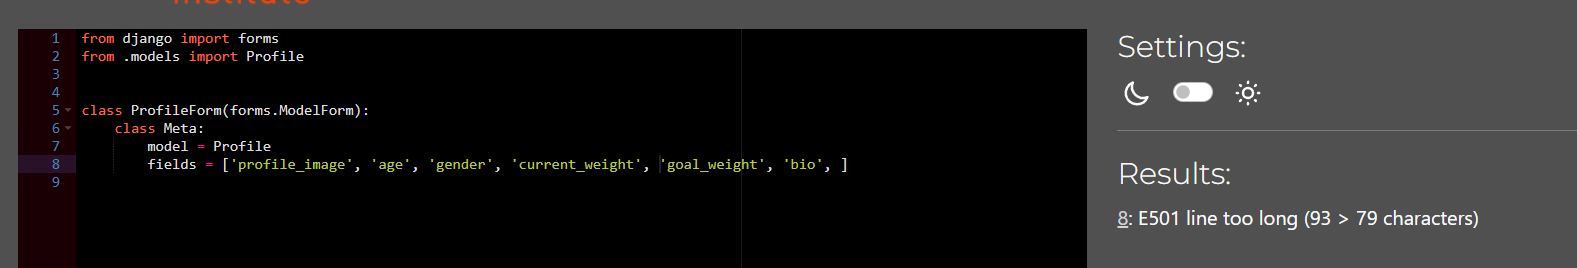
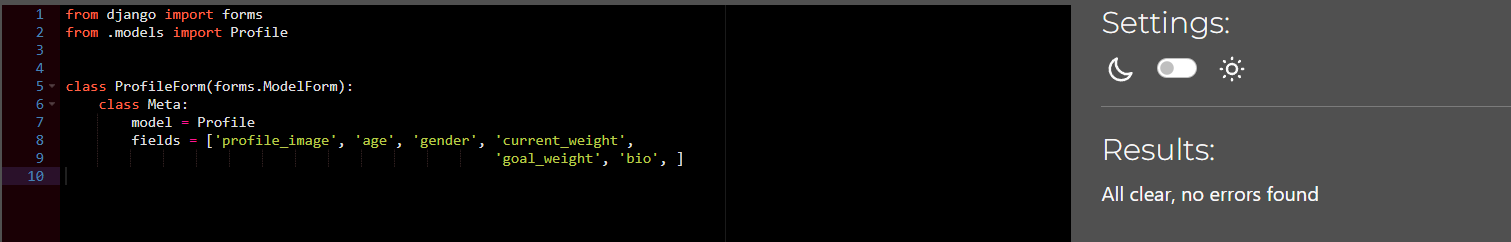
ensure code passes through linter. Update testing.md.

Changed region(s): [[0.0, 0.0, 1.0, 1.0]]

diff --git a/workouts/views.py b/workouts/views.py
@@ -1,30 +1,43 @@
-from django.shortcuts import render 
-from django.shortcuts import get_object_or_404
-from django.shortcuts import redirect
-from .models import Workouts , Exercise
-from .forms import NewWorkoutForm , UpdateWorkoutForm, ExerciseForm
+from django.shortcuts import render, get_object_or_404, redirect
+from .models import Workouts, Exercise
+from .forms import NewWorkoutForm, UpdateWorkoutForm, ExerciseForm
+
 
 # Create your views here.
 def Home(request):
-    return render(request ,"index.html")
+    return render(request, "index.html")
+
 
 def Dashboard(request):
-    workouts = Workouts.objects.filter(user=request.user).all().order_by('-updated_on')
+    workouts = (
+        Workouts.objects.filter(user=request.user)
+        .all()
+        .order_by('-updated_on')
+    )
     return render(request, "dashboard.html", {"workouts": workouts})
+
 
 def About(request):
     return render(request, "about.html")
 
+
 def Register(request):
     return render(request, "registration.html")
+
 
 def Login(request):
     return render(request, "login.html")
 
+
 def ViewWorkout(request, view_id):
     workout = get_object_or_404(Workouts, id=view_id)
     exercises = workout.exercises.all().order_by('-updated_on')
-    return render(request, "view.html", {"workout": workout, 'exercises':exercises})
+    return render(
+        request,
+        "view.html",
+        {"workout": workout, 'exercises': exercises}
+    )
+
 
 def CreateWorkout(request):
     if request.method == "POST":
@@ -36,7 +49,8 @@ def CreateWorkout(request):
             return redirect('dashboard')
     else:
         form = NewWorkoutForm()
-        return render(request, "create.html", {"form": form})
+    return render(request, "create.html", {"form": form})
+
 
 def DeleteWorkout(request, workout_id):
     if request.method == "POST":
@@ -44,11 +58,13 @@ def DeleteWorkout(request, workout_id):
         workout.delete()
     return redirect('dashboard')
 
+
 def DeleteExercise(request, exercise_id):
     if request.method == "POST":
         exercise = get_object_or_404(Exercise, id=exercise_id)
         exercise.delete()
-    return redirect('view',view_id=exercise.workout.id) 
+    return redirect('view', view_id=exercise.workout.id)
+
 
 def UpdateWorkout(request, workout_id):
     workout = get_object_or_404(Workouts, id=workout_id)
@@ -59,21 +75,26 @@ def UpdateWorkout(request, workout_id):
             return redirect('dashboard')
     else:
         form = UpdateWorkoutForm(instance=workout)
-        return render(request, "update_workout.html", {"form": form})
+    return render(request, "update_workout.html", {"form": form})
+
 
 def AddExercise(request, workout_id):
     workout = get_object_or_404(Workouts, id=workout_id)
-
     if request.method == "POST":
         form = ExerciseForm(request.POST)
         if form.is_valid():
             exercise = form.save(commit=False)
             exercise.workout = workout
             exercise.save()
-            return redirect('view',view_id=workout.id)
+            return redirect('view', view_id=workout.id)
     else:
         form = ExerciseForm()
-        return render(request, "add_exercise.html", {"form": form, "workout": workout})
+    return render(
+        request,
+        "add_exercise.html",
+        {"form": form, "workout": workout}
+    )
+
 
 def UpdateExercise(request, exercise_id):
     exercise = get_object_or_404(Exercise, id=exercise_id)
@@ -81,12 +102,11 @@ def UpdateExercise(request, exercise_id):
         form = ExerciseForm(request.POST, instance=exercise)
         if form.is_valid():
             form.save()
-            return redirect('view',view_id=exercise.workout.id)
+            return redirect('view', view_id=exercise.workout.id)
     else:
         form = ExerciseForm(instance=exercise)
     return render(request, "update_exercise.html", {"form": form})
 
+
 def ErrorPage(request):
-   return render(request ,"404.html")
-
-
+    return render(request, "404.html")

diff --git a/workouts/models.py b/workouts/models.py
@@ -1,8 +1,6 @@
 from django.db import models
 from django.contrib.auth.models import User
 
-# Create your models here.
-
 # Workouts
 
 TRAINING_STYLE = [
@@ -23,27 +21,47 @@ UNITS = [
 class Workouts(models.Model):
     user = models.ForeignKey(User, on_delete=models.CASCADE)
     title = models.CharField(max_length=200)
-    workout_duration = models.PositiveIntegerField(default=120, null=True, blank=True)
-    training_split = models.CharField(max_length=200, default='e.g Upper Body, Lower Body , PPL')
-    description = models.TextField(default='Enter Short Description', blank=True)
+    workout_duration = models.PositiveIntegerField(
+        default=120,
+        null=True,
+        blank=True
+    )
+    training_split = models.CharField(
+        max_length=200,
+        default='e.g Upper Body, Lower Body, PPL'
+    )
+    description = models.TextField(
+        default='Enter Short Description',
+        blank=True
+    )
     created_on = models.DateTimeField(auto_now_add=True)
     updated_on = models.DateTimeField(auto_now=True)
 
     def __str__(self):
         return self.title
 
-# Exercise
-
 
 class Exercise(models.Model):
-    workout = models.ForeignKey(Workouts, on_delete=models.CASCADE, related_name='exercises')
+    workout = models.ForeignKey(
+        Workouts,
+        on_delete=models.CASCADE,
+        related_name='exercises'
+    )
     name = models.CharField(max_length=100)
-    training_style = models.CharField(max_length=50, choices=TRAINING_STYLE, default="split")
+    training_style = models.CharField(
+        max_length=50,
+        choices=TRAINING_STYLE,
+        default='straightsets'
+    )
     sets = models.PositiveIntegerField(default=4)
     reps = models.PositiveIntegerField(default=12)
     weight = models.PositiveIntegerField(default=12)
-    units = models.CharField(max_length=20, choices=UNITS, default='kg or lbs')
+    units = models.CharField(
+        max_length=20,
+        choices=UNITS,
+        default='kg'
+    )
     updated_on = models.DateTimeField(auto_now=True)
 
     def __str__(self):
-        return f" {self.name} - {self.sets} x {self.reps}"
+        return f"{self.name} - {self.sets} x {self.reps}"

diff --git a/users/models.py b/users/models.py
@@ -18,12 +18,28 @@ UNITS = [
 class Profile(models.Model):
     user = models.OneToOneField(User, on_delete=models.CASCADE)
     age = models.PositiveIntegerField(default=24)
-    gender = models.CharField(max_length=50, choices=GENDER, default="Male")
+    gender = models.CharField(
+        max_length=50,
+        choices=GENDER,
+        default="Male"
+    )
     current_weight = models.PositiveIntegerField(default=64)
     goal_weight = models.PositiveIntegerField(default=55)
-    units = models.PositiveIntegerField(default=1, choices=UNITS)
-    bio = models.TextField(default='Provide description about yourself and your fitness goals.')
-    profile_image = models.ImageField(null=True, blank=True, upload_to="images/")
+    units = models.PositiveIntegerField(
+        default=1,
+        choices=UNITS
+    )
+    bio = models.TextField(
+        default=(
+            'Provide description about yourself and your '
+            'fitness goals.'
+        )
+    )
+    profile_image = models.ImageField(
+        null=True,
+        blank=True,
+        upload_to="images/"
+    )
 
     def __str__(self):
         return f"{self.user}'s Profile"

diff --git a/workouts/urls.py b/workouts/urls.py
@@ -10,10 +10,25 @@ urlpatterns = [
     path('view/<int:view_id>/', views.ViewWorkout, name='view'),
     path('create/', views.CreateWorkout, name='create'),
     path('delete/<int:workout_id>/', views.DeleteWorkout, name='delete'),
-    path('update_workout/<int:workout_id>/', views.UpdateWorkout, name='update_workout'),
-    path('update_exercise/<int:exercise_id>/', views.UpdateExercise, name='update_ex'),
-    path('add_exercise/<int:workout_id>/', views.AddExercise, name='add_ex'),
-    path('delete_exercise/<int:exercise_id>/', views.DeleteExercise, name='delete_ex'),
+    path(
+        'update_workout/<int:workout_id>/',
+        views.UpdateWorkout,
+        name='update_workout'
+    ),
+    path(
+        'update_exercise/<int:exercise_id>/',
+        views.UpdateExercise,
+        name='update_ex'
+    ),
+    path(
+        'add_exercise/<int:workout_id>/',
+        views.AddExercise,
+        name='add_ex'
+    ),
+    path(
+        'delete_exercise/<int:exercise_id>/',
+        views.DeleteExercise,
+        name='delete_ex'
+    ),
     path('404/', views.ErrorPage, name='404'),
 ]
-

diff --git a/users/views.py b/users/views.py
@@ -6,12 +6,12 @@ from .forms import ProfileForm
 
 
 def UserProfile(request):
-    user_info = Profile.objects.filter(user=request.user)
+    user_info = Profile.objects.filter(user=request.user).first()
     return render(request, "profile.html", {'user_info': user_info})
 
 
 def UpdateProfile(request):
-    user_info = Profile.objects.filter(user=request.user)
+    user_info = Profile.objects.filter(user=request.user).first()
     if request.method == "POST":
         form = ProfileForm(request.POST, request.FILES, instance=user_info)
         if form.is_valid():

diff --git a/users/forms.py b/users/forms.py
@@ -5,4 +5,5 @@ from .models import Profile
 class ProfileForm(forms.ModelForm):
     class Meta:
         model = Profile
-        fields = ['profile_image', 'age', 'gender', 'current_weight', 'goal_weight', 'bio', ]
+        fields = ['profile_image', 'age', 'gender', 'current_weight',
+                                                    'goal_weight', 'bio', ]

diff --git a/TESTING.md b/TESTING.md
@@ -27,7 +27,7 @@
 **[Solved & Known Bugs ](#solved--known-bugs)**
 
 ---
-Chrome DevTools was incredibly helpful throughout the testing process, enabling quick troubleshooting. While building the website, I kept track of bugs as they arose.
+Chrome DevTools was incredibly helpful throughout the testing process, enabling quick troubleshooting.<br>While building the website, I kept track of bugs as they arose.
 
 I also attempted to use Django Testing , to build automated tests for my forms .
 
@@ -40,7 +40,7 @@ The W3C Validator was used to check and validate the HTML and CSS for all pages 
 * [About Page](https://validator.w3.org/nu/?doc=https%3A%2F%2Fstrength-stack-e65fe8f9116b.herokuapp.com%2Fabout%2F) - No errors or warnings.
 * [Login Page](https://validator.w3.org/nu/?doc=https%3A%2F%2Fstrength-stack-e65fe8f9116b.herokuapp.com%2Faccounts%2Flogin%2F) - No errors or warnings.
 * [Registration Page](https://validator.w3.org/nu/?doc=https%3A%2F%2Fstrength-stack-e65fe8f9116b.herokuapp.com%2Faccounts%2Fsignup%2F) - No errors or warnings.
-* [Profile Page]() - 500 Internal Server Error
+* [Profile Page](https://validator.w3.org/nu/?doc=https%3A%2F%2Fstrength-stack-e65fe8f9116b.herokuapp.com%2Fusers%2Fprofile%2F) - 500 Internal Server Error
 * [Update Profile Page]()-  500 Internal Server Error
 * [Dashboard](https://validator.w3.org/nu/?doc=https%3A%2F%2Fstrength-stack-e65fe8f9116b.herokuapp.com%2Fdashboard%2F) - No errors or warnings.
 * [Update Workout Page](https://validator.w3.org/nu/?doc=https%3A%2F%2Fstrength-stack-e65fe8f9116b.herokuapp.com%2Fupdate_workout%2F16%2F) -No errors or warnings.
@@ -55,7 +55,6 @@ The W3C Validator was used to check and validate the HTML and CSS for all pages 
 
 ### Python Validator
 To validate all my Python code, I used the Code Institute [Python Linter](https://pep8ci.herokuapp.com/).<br>
-Most of my code passed without issues, except for line length.
 
 **"workouts" App :**
 
@@ -65,8 +64,6 @@ Most of my code passed without issues, except for line length.
 * [test_forms.py](staticfiles/images/TESTING%20images/test-workouts-PL.png)
 * [urls.py](staticfiles/images/TESTING%20images/urls-workouts-PL.png)
 * [views.py](staticfiles/images/TESTING%20images/views-workouts-PL.png) 
-    * **"E231 missing whitespace after '"**<br>
-    I don’t understand this error since all unnecessary whitespace has been removed.
 
 **"users" App :**
 
